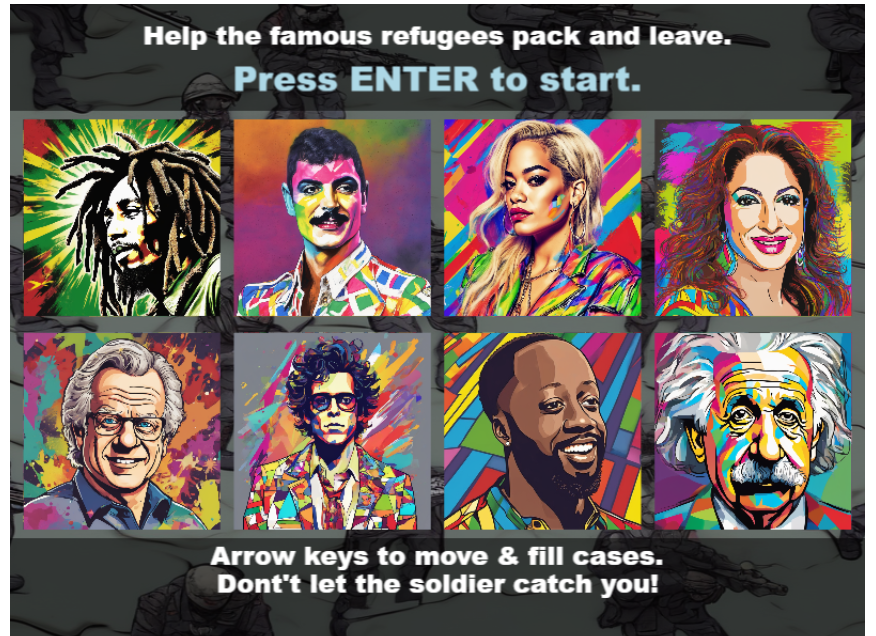
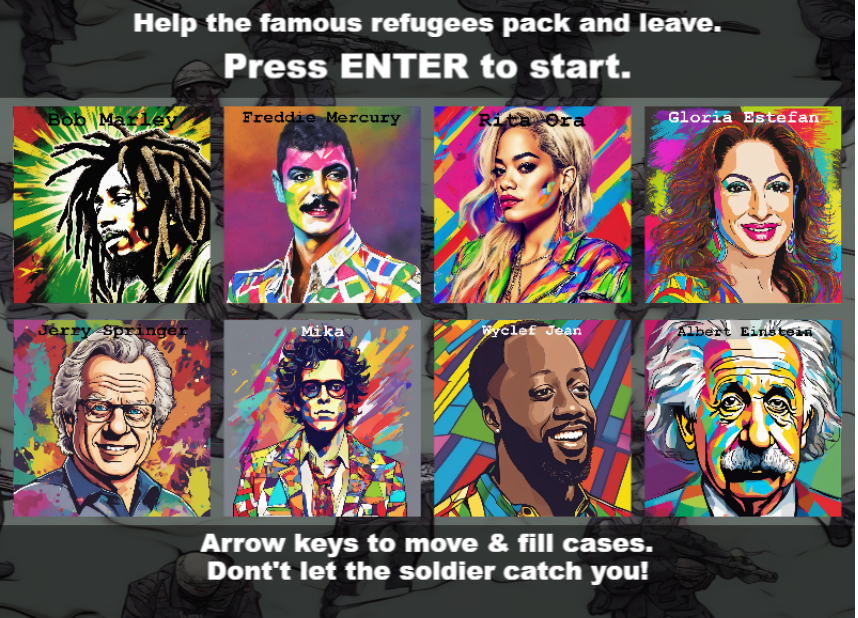
changes to README

diff --git a/README.md b/README.md
@@ -1,5 +1,5 @@
 # Help famous refugees pack and leave
-A short game to help 8 famous and celebrity refugees from different eras and countries pack their cases and leave, while also avoiding the enemy soldier.
+A short game to help 8 famous and celebrity refugees from different eras and countries pack their cases and leave, whilst also avoiding the enemy soldier.
 
 ## Link to deployed page: 
 https://vickysug.github.io/help-famous-refugees-pack
@@ -17,7 +17,7 @@ In progress
 
 ## Project Brief
 
-This project was a quick brief in between projects while on my internship with BIZGEES. The brief:
+This project was my 3rd project while on my internship with BIZGEES. The brief:
 
 * Create a short 30 second - 2 minute game.
 
@@ -32,7 +32,7 @@ This project was a quick brief in between projects while on my internship with B
 ## Famous refugee people I chose
 
 Bob Marley, 
-Freddie Murcury, 
+Freddie Mercury, 
 Rita Ora, 
 Gloria Estefan, 
 Jerry Springer, 
@@ -53,5 +53,5 @@ https://play.rosebud.ai/games/a5212c3f-fae8-407c-ab8f-4a8bddecb0cb
 
 ![alt text](images/monkey.png)
 
-Rosebud can generate AI images, I created most of mine in Rosebud.
+Rosebud can generate AI images an I created most of mine in Rosebud then added text over the top in photoshop. 
 
